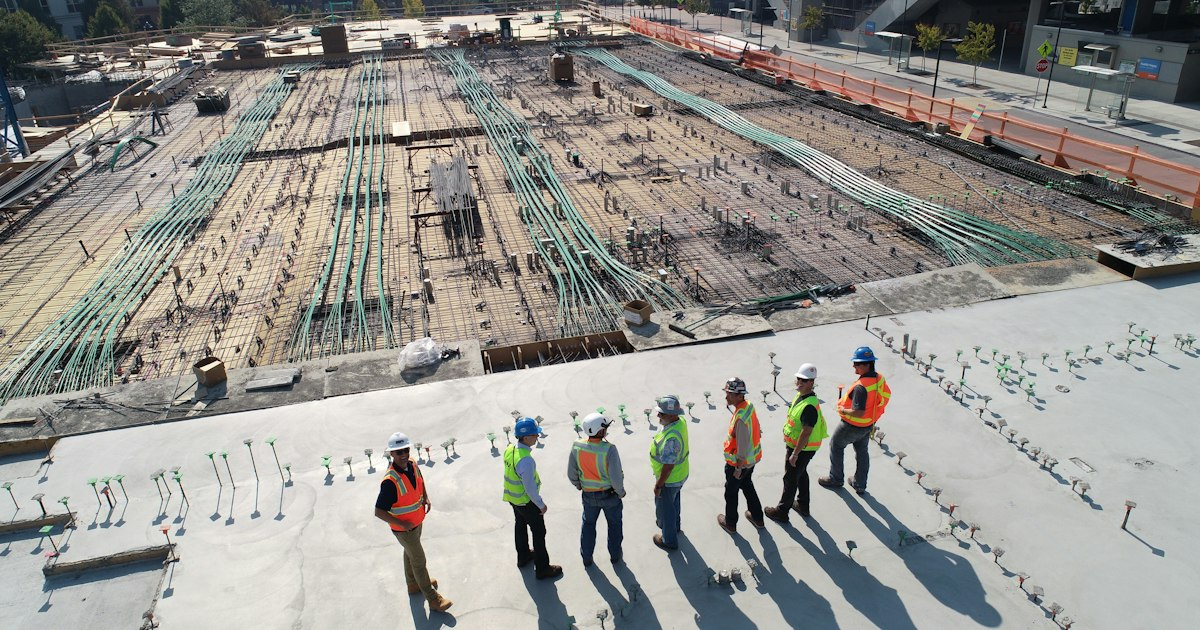
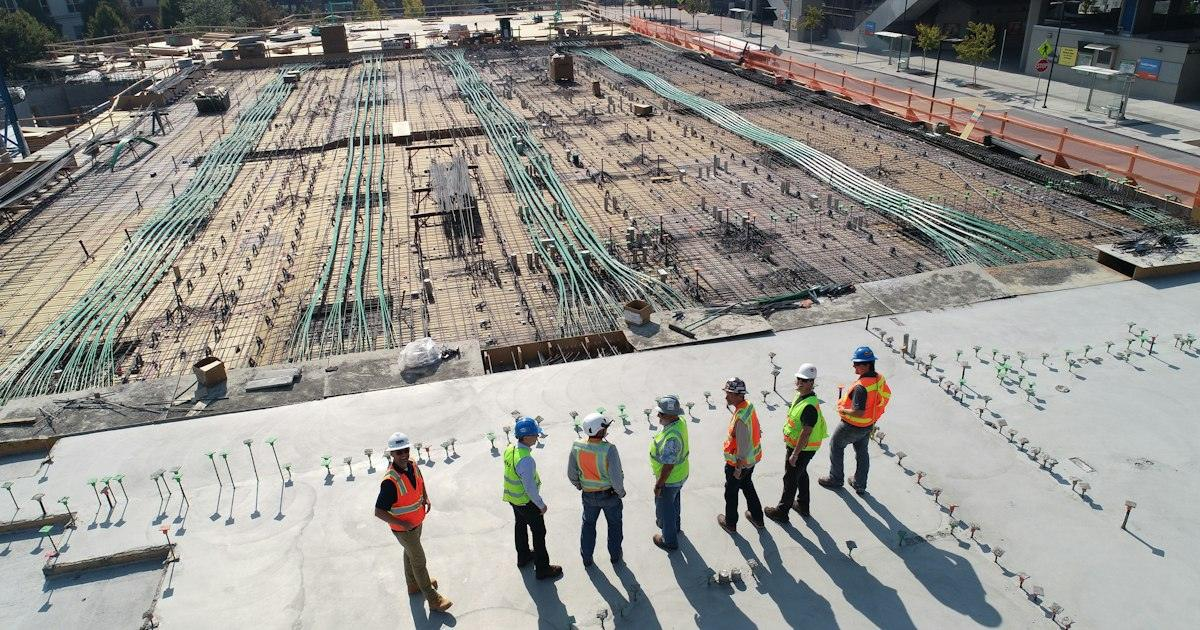
SEO: pré-renderizar páginas, sitemap e dados da empresa
- Build gera HTML completo de cada rota (entry-server + tools/prerender.js),
  404.html e sitemap.xml; o navegador hidrata a página pronta.
- Componente Seo com título, descrição, canonical e Open Graph por página.
- Dados estruturados ProfessionalService (endereço, telefone, serviços).
- .htaccess serve /pagina a partir de pagina.html, remove barra final e
  devolve 404 real; robots.txt aponta o sitemap.
- Fotos recomprimidas (~25% menores) e fetchpriority corrigido.

diff --git a/src/lib/seo.js b/src/lib/seo.js
@@ -1,0 +1,57 @@
+import {
+  COMPANY_NAME,
+  CONTACT_PERSON,
+  EMAIL,
+  INSTAGRAM_URL,
+  WHATSAPP_NUMBER,
+  ADDRESS_LINE,
+} from '@/lib/contact';
+import { SERVICES } from '@/lib/services';
+
+// Domínio oficial, sem barra no final. Usado em canonical, Open Graph, sitemap e dados estruturados.
+export const SITE_URL = 'https://gbconsultoriasst.com.br';
+export const OG_IMAGE = `${SITE_URL}/images/og-image.jpg`;
+
+// Páginas indexáveis. O script de pré-renderização (tools/prerender.js) gera um HTML
+// para cada uma e monta o sitemap.xml a partir desta lista.
+export const ROUTES = ['/', '/sobre', '/servicos', '/contato'];
+
+export const absoluteUrl = (path) => (path === '/' ? `${SITE_URL}/` : `${SITE_URL}${path}`);
+
+// Dados estruturados (schema.org) da empresa local, lidos pelo Google para a busca e o Maps.
+export const LOCAL_BUSINESS_JSONLD = {
+  '@context': 'https://schema.org',
+  '@type': 'ProfessionalService',
+  '@id': `${SITE_URL}/#empresa`,
+  name: COMPANY_NAME,
+  alternateName: 'GB Consultoria SST',
+  description:
+    'Consultoria em segurança do trabalho para empresas de Tietê e região: PGR, LTCAT, PCMSO, eSocial SST, AVCB e CLCB, treinamentos NR e palestras.',
+  url: `${SITE_URL}/`,
+  logo: `${SITE_URL}/logo.png`,
+  image: OG_IMAGE,
+  telephone: `+${WHATSAPP_NUMBER}`,
+  email: EMAIL,
+  foundingDate: '2022',
+  founder: { '@type': 'Person', name: CONTACT_PERSON },
+  address: {
+    '@type': 'PostalAddress',
+    streetAddress: ADDRESS_LINE.replace(' – ', ', '),
+    addressLocality: 'Tietê',
+    addressRegion: 'SP',
+    addressCountry: 'BR',
+  },
+  areaServed: [
+    { '@type': 'City', name: 'Tietê' },
+    { '@type': 'State', name: 'São Paulo' },
+  ],
+  sameAs: [INSTAGRAM_URL],
+  hasOfferCatalog: {
+    '@type': 'OfferCatalog',
+    name: 'Serviços de segurança do trabalho',
+    itemListElement: SERVICES.map((s) => ({
+      '@type': 'Offer',
+      itemOffered: { '@type': 'Service', name: s.title, description: s.description },
+    })),
+  },
+};

diff --git a/tools/prerender.js b/tools/prerender.js
@@ -1,0 +1,39 @@
+#!/usr/bin/env node
+// Pré-renderização: depois do "vite build", gera um HTML completo para cada página,
+// para que o Google (e as prévias de WhatsApp/Instagram) leiam o conteúdo sem depender
+// de JavaScript. Também gera o 404.html e o sitemap.xml.
+import fs from 'node:fs';
+import path from 'node:path';
+import { pathToFileURL } from 'node:url';
+
+const root = path.resolve(import.meta.dirname, '..');
+const dist = path.join(root, 'dist');
+const { render, ROUTES, absoluteUrl } = await import(
+  pathToFileURL(path.join(root, 'dist-ssr', 'entry-server.js')).href
+);
+
+const template = fs.readFileSync(path.join(dist, 'index.html'), 'utf-8');
+
+const page = (url) => {
+  const { html, head } = render(url);
+  return template.replace('<!--app-head-->', head).replace('<!--app-html-->', html);
+};
+
+// "/" vira index.html; "/sobre" vira sobre.html (o .htaccess serve /sobre a partir dele)
+const fileFor = (route) => (route === '/' ? 'index.html' : `${route.slice(1)}.html`);
+
+for (const route of ROUTES) {
+  fs.writeFileSync(path.join(dist, fileFor(route)), page(route));
+  console.log(`pré-renderizado: ${route} -> ${fileFor(route)}`);
+}
+fs.writeFileSync(path.join(dist, '404.html'), page('/404'));
+console.log('pré-renderizado: 404.html');
+
+const today = new Date().toISOString().slice(0, 10);
+const sitemap = `<?xml version="1.0" encoding="UTF-8"?>
+<urlset xmlns="http://www.sitemaps.org/schemas/sitemap/0.9">
+${ROUTES.map((r) => `  <url><loc>${absoluteUrl(r)}</loc><lastmod>${today}</lastmod></url>`).join('\n')}
+</urlset>
+`;
+fs.writeFileSync(path.join(dist, 'sitemap.xml'), sitemap);
+console.log('gerado: sitemap.xml');

diff --git a/src/pages/HomePage.jsx b/src/pages/HomePage.jsx
@@ -1,5 +1,5 @@
 import React from 'react';
-import { Helmet } from 'react-helmet';
+import Seo from '@/components/Seo';
 import { motion } from 'framer-motion';
 import { Link } from 'react-router-dom';
 import { Check, MapPin, Users, Factory, Footprints, Ruler } from 'lucide-react';
@@ -30,13 +30,11 @@ const ABOUT_POINTS = [
 const HomePage = () => {
   return (
     <>
-      <Helmet>
-        <title>GB Consultoria de Segurança do Trabalho - Tietê e região</title>
-        <meta
-          name="description"
-          content="Consultoria em segurança do trabalho para empresas de Tietê e região: PGR, LTCAT, PCMSO, eSocial SST, AVCB e CLCB, treinamentos NR e palestras para empresas de todos os portes."
-        />
-      </Helmet>
+      <Seo
+        title="Segurança do Trabalho em Tietê e região | GB Consultoria"
+        description="Consultoria em segurança do trabalho para empresas de Tietê e região: PGR, LTCAT, PCMSO, eSocial SST, AVCB e CLCB, treinamentos NR e palestras para empresas de todos os portes."
+        path="/"
+      />
 
       {/* Hero com foto */}
       <section className="relative isolate overflow-hidden bg-brand-navy text-white">
@@ -44,7 +42,7 @@ const HomePage = () => {
           src="/images/hero-equipe.jpg"
           alt=""
           className="absolute inset-0 -z-20 h-full w-full object-cover"
-          fetchPriority="high"
+          fetchpriority="high"
         />
         <div
           aria-hidden="true"

diff --git a/index.html b/index.html
@@ -6,21 +6,16 @@
 		<link rel="icon" type="image/png" href="/favicon.png" />
 		<link rel="apple-touch-icon" href="/apple-touch-icon.png" />
 		<meta name="theme-color" content="#1E7A45" />
-		<title>GB Consultoria de Segurança do Trabalho - Tietê e região</title>
-		<meta name="description" content="Consultoria em segurança do trabalho para empresas de Tietê e região: PGR, LTCAT, PCMSO, eSocial SST, AVCB e CLCB, treinamentos NR e palestras." />
-		<meta name="author" content="GB Consultoria de Segurança do Trabalho" />
+		<!--app-head-->
 		<meta property="og:type" content="website" />
 		<meta property="og:site_name" content="GB Consultoria de Segurança do Trabalho" />
-		<meta property="og:title" content="GB Consultoria de Segurança do Trabalho" />
-		<meta property="og:description" content="Gestão e emissão de documentos SST e treinamentos NR para manter sua empresa em conformidade e reduzir riscos." />
-		<meta property="og:image" content="/images/og-image.jpg" />
 		<meta property="og:locale" content="pt_BR" />
 		<meta name="twitter:card" content="summary_large_image" />
 		<link rel="preconnect" href="https://fonts.googleapis.com" />
 		<link rel="preconnect" href="https://fonts.gstatic.com" crossorigin />
 	</head>
 	<body>
-		<div id="root"></div>
+		<div id="root"><!--app-html--></div>
 		<script type="module" src="/src/main.jsx"></script>
 	</body>
 </html>

diff --git a/src/App.jsx b/src/App.jsx
@@ -1,5 +1,6 @@
 import React from 'react';
-import { BrowserRouter, Routes, Route } from 'react-router-dom';
+import { Helmet } from 'react-helmet';
+import { Routes, Route } from 'react-router-dom';
 import { MotionConfig } from 'framer-motion';
 import Layout from '@/components/Layout';
 import ScrollToTop from '@/components/ScrollToTop';
@@ -9,10 +10,16 @@ import ServicosPage from '@/pages/ServicosPage';
 import ContatoPage from '@/pages/ContatoPage';
 import NotFoundPage from '@/pages/NotFoundPage';
 import { Toaster } from '@/components/ui/toaster';
+import { LOCAL_BUSINESS_JSONLD } from '@/lib/seo';
 
+// O roteador fica fora do App: BrowserRouter no navegador (main.jsx) e
+// StaticRouter na pré-renderização (entry-server.jsx).
 function App() {
   return (
-    <BrowserRouter>
+    <>
+      <Helmet>
+        <script type="application/ld+json">{JSON.stringify(LOCAL_BUSINESS_JSONLD)}</script>
+      </Helmet>
       {/* reducedMotion="user" respeita a preferência do sistema por menos animação */}
       <MotionConfig reducedMotion="user">
         <ScrollToTop />
@@ -27,7 +34,7 @@ function App() {
         </Layout>
         <Toaster />
       </MotionConfig>
-    </BrowserRouter>
+    </>
   );
 }
 

diff --git a/src/pages/SobrePage.jsx b/src/pages/SobrePage.jsx
@@ -1,5 +1,5 @@
 import React from 'react';
-import { Helmet } from 'react-helmet';
+import Seo from '@/components/Seo';
 import { motion } from 'framer-motion';
 import { Check, Target, Gem, ShieldCheck } from 'lucide-react';
 import PageHero from '@/components/PageHero';
@@ -38,13 +38,11 @@ const PILLARS = [
 const SobrePage = () => {
   return (
     <>
-      <Helmet>
-        <title>Quem somos - GB Consultoria de Segurança do Trabalho em Tietê e região</title>
-        <meta
-          name="description"
-          content="Com sede em Tietê/SP, a GB Consultoria atende empresas de toda a região nos setores de engenharia, lavanderia, madeireira, construção civil e indústria química em segurança do trabalho."
-        />
-      </Helmet>
+      <Seo
+        title="Quem somos | GB Consultoria de Segurança do Trabalho"
+        description="Com sede em Tietê/SP, a GB Consultoria atende empresas de toda a região nos setores de engenharia, lavanderia, madeireira, construção civil e indústria química em segurança do trabalho."
+        path="/sobre"
+      />
 
       <PageHero
         crumb="Quem somos"

diff --git a/src/pages/ContatoPage.jsx b/src/pages/ContatoPage.jsx
@@ -1,5 +1,5 @@
 import React, { useEffect, useRef, useState } from 'react';
-import { Helmet } from 'react-helmet';
+import Seo from '@/components/Seo';
 import { motion } from 'framer-motion';
 import HCaptcha from '@hcaptcha/react-hcaptcha';
 import { Instagram, Mail, Phone, MapPin, Send, Loader2, CheckCircle2, AlertCircle } from 'lucide-react';
@@ -172,13 +172,11 @@ const ContatoPage = () => {
 
   return (
     <>
-      <Helmet>
-        <title>Contato - GB Consultoria de Segurança do Trabalho</title>
-        <meta
-          name="description"
-          content="Entre em contato com a GB Consultoria, que atende empresas de Tietê e região. Solicite um orçamento para documentação SST, AVCB, CLCB, PGR, PCMSO e treinamentos NR."
-        />
-      </Helmet>
+      <Seo
+        title="Contato e orçamento | GB Consultoria - Tietê e região"
+        description="Entre em contato com a GB Consultoria, que atende empresas de Tietê e região. Solicite um orçamento para documentação SST, AVCB, CLCB, PGR, PCMSO e treinamentos NR."
+        path="/contato"
+      />
 
       <PageHero
         crumb="Contato"

diff --git a/src/pages/ServicosPage.jsx b/src/pages/ServicosPage.jsx
@@ -1,5 +1,5 @@
 import React from 'react';
-import { Helmet } from 'react-helmet';
+import Seo from '@/components/Seo';
 import { Link } from 'react-router-dom';
 import PageHero from '@/components/PageHero';
 import ServiceBlocks from '@/components/ServiceBlocks';
@@ -9,13 +9,11 @@ import { SERVICES } from '@/lib/services';
 const ServicosPage = () => {
   return (
     <>
-      <Helmet>
-        <title>Serviços - GB Consultoria de Segurança do Trabalho</title>
-        <meta
-          name="description"
-          content="PGR, LTCAT, PCMSO, eSocial SST (S-2210, S-2220, S-2240), AVCB e CLCB, treinamentos NR, primeiros socorros, 5S, SIPAT e palestras em Tietê/SP e região."
-        />
-      </Helmet>
+      <Seo
+        title="PGR, PCMSO, LTCAT, AVCB e Treinamentos NR | GB Consultoria"
+        description="PGR, LTCAT, PCMSO, eSocial SST (S-2210, S-2220, S-2240), AVCB e CLCB, treinamentos NR, primeiros socorros, 5S, SIPAT e palestras em Tietê/SP e região."
+        path="/servicos"
+      />
 
       <PageHero
         crumb="Serviços"

diff --git a/src/components/Seo.jsx b/src/components/Seo.jsx
@@ -1,0 +1,26 @@
+import React from 'react';
+import { Helmet } from 'react-helmet';
+import { absoluteUrl, OG_IMAGE } from '@/lib/seo';
+
+/**
+ * Título, descrição, URL canônica e cartões de compartilhamento (Open Graph) de cada página.
+ * Sem "path" (página 404), não gera canonical e pede para não indexar.
+ */
+const Seo = ({ title, description, path }) => {
+  const url = path ? absoluteUrl(path) : null;
+  return (
+    <Helmet>
+      <title>{title}</title>
+      {description && <meta name="description" content={description} />}
+      {url ? <link rel="canonical" href={url} /> : <meta name="robots" content="noindex" />}
+      {url && <meta property="og:url" content={url} />}
+      <meta property="og:title" content={title} />
+      {description && <meta property="og:description" content={description} />}
+      <meta property="og:image" content={OG_IMAGE} />
+      <meta property="og:image:width" content="1200" />
+      <meta property="og:image:height" content="630" />
+    </Helmet>
+  );
+};
+
+export default Seo;

diff --git a/src/pages/NotFoundPage.jsx b/src/pages/NotFoundPage.jsx
@@ -1,5 +1,5 @@
 import React from 'react';
-import { Helmet } from 'react-helmet';
+import Seo from '@/components/Seo';
 import { Link } from 'react-router-dom';
 import { ArrowRight } from 'lucide-react';
 import WhatsAppIcon from '@/components/WhatsAppIcon';
@@ -8,10 +8,7 @@ import { WHATSAPP_URL } from '@/lib/contact';
 const NotFoundPage = () => {
   return (
     <>
-      <Helmet>
-        <title>Página não encontrada - GB Consultoria de Segurança do Trabalho</title>
-        <meta name="robots" content="noindex" />
-      </Helmet>
+      <Seo title="Página não encontrada | GB Consultoria" />
 
       <section className="section bg-brand-blue-soft">
         <div className="container max-w-3xl">

diff --git a/src/entry-server.jsx b/src/entry-server.jsx
@@ -1,0 +1,19 @@
+import React from 'react';
+import { renderToString } from 'react-dom/server';
+import { StaticRouter } from 'react-router-dom';
+import { Helmet } from 'react-helmet';
+import App from '@/App';
+
+export { ROUTES, absoluteUrl } from '@/lib/seo';
+
+/** Renderiza uma rota em HTML para a pré-renderização (tools/prerender.js). */
+export function render(url) {
+  const html = renderToString(
+    <StaticRouter location={url}>
+      <App />
+    </StaticRouter>
+  );
+  const helmet = Helmet.renderStatic();
+  const head = [helmet.title, helmet.meta, helmet.link, helmet.script].map((t) => t.toString()).join('\n');
+  return { html, head };
+}

diff --git a/src/main.jsx b/src/main.jsx
@@ -1,8 +1,19 @@
 import React from 'react';
 import ReactDOM from 'react-dom/client';
+import { BrowserRouter } from 'react-router-dom';
 import App from '@/App';
 import '@/index.css';
 
-ReactDOM.createRoot(document.getElementById('root')).render(
-  <App />
+const root = document.getElementById('root');
+const app = (
+  <BrowserRouter>
+    <App />
+  </BrowserRouter>
 );
+
+// Em produção o HTML já vem pré-renderizado (tools/prerender.js): o React só "assume" a página.
+if (root.hasChildNodes()) {
+  ReactDOM.hydrateRoot(root, app);
+} else {
+  ReactDOM.createRoot(root).render(app);
+}
